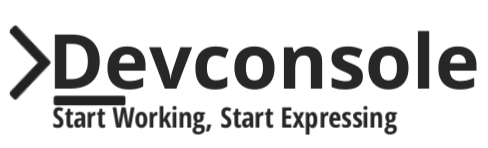
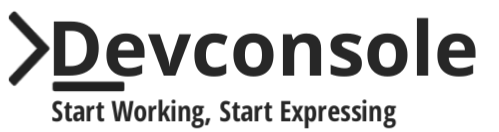
added ui contribution data and modified template

diff --git a/_site/index.html b/_site/index.html
@@ -54,7 +54,7 @@
 <header class="header">
     <nav class="navbar fixed-top" style="box-shadow: none;">
       <a href="index.html" class="navbar-brand">
-        <img src="assets/img/devconsole-1.png" height="50">
+        <img src="assets/img/devconsole.png" height="50">
       </a>
     </nav>
   </header><section id="hero" class="hero hero-home">
@@ -102,7 +102,7 @@
         <div class="container">
             <div class="row d-flex align-items-center">
                 <div class="image col-lg-3 order-2 order-lg-1" style="margin-top:-13%;">
-                    <div class="card" >
+                    <div class="card">
                         <div class="card-header">
                             <span class="font-weight-bold">Top Contributors</span>
                         </div>
@@ -149,14 +149,41 @@
                 </div>
 
                 <div class="text col-lg-9 order-1 order-lg-2">
-                    <h1>React JS UI Challenge</h1>
-                    <div class="card" style="width: 18rem;">
-                        <img class="card-img-top" src="https://raw.githubusercontent.com/devconsolein/react-js-ui-challenge/master/app-landing-page/screenshot/task4.jpeg" alt="Card image cap">
-                        <div class="card-body">
-                            <p class="card-text">Some quick example text to build on the card title and make up the
-                                bulk of the card's content.</p>
+                    <div class="row">
+                        <div class="col-lg-8">
+                            <h1>React JS UI Challenge </h1>
+                        </div>
+                        <div class="col-lg-4">
+                            <a href="https://github.com/devconsolein/react-js-ui-challenge" class="btn btn-outline-primary">Fork Now</a>
                         </div>
                     </div>
+
+                    <div class="row">
+                        
+                        <div class="col-lg-4">
+                            <div class="card">
+                                <img class="card-img-top" src="https://raw.githubusercontent.com/devconsolein/react-js-ui-challenge/master/app-landing-page/screenshot/task4.jpeg" alt="Card image cap">
+                                <div class="card-body">
+                                    <p style="margin-top:-10px; margin-bottom: -1px;" class="font-weight-bold text-dark"><b>Author:
+                                        </b>Ashad Nasim</p>
+                                    <small><b>Inspiration: </b>https://</small>
+                                </div>
+                            </div>
+                        </div>
+                        
+                        <div class="col-lg-4">
+                            <div class="card">
+                                <img class="card-img-top" src="https://raw.githubusercontent.com/devconsolein/react-js-ui-challenge/master/app-landing-page/screenshot/task4.jpeg" alt="Card image cap">
+                                <div class="card-body">
+                                    <p style="margin-top:-10px; margin-bottom: -1px;" class="font-weight-bold text-dark"><b>Author:
+                                        </b>Ashad Nasim</p>
+                                    <small><b>Inspiration: </b>https://</small>
+                                </div>
+                            </div>
+                        </div>
+                        
+                    </div>
+
                 </div>
             </div>
         </div>

diff --git a/_layouts/landing.html b/_layouts/landing.html
@@ -52,7 +52,7 @@
         <div class="container">
             <div class="row d-flex align-items-center">
                 <div class="image col-lg-3 order-2 order-lg-1" style="margin-top:-13%;">
-                    <div class="card" >
+                    <div class="card">
                         <div class="card-header">
                             <span class="font-weight-bold">Top Contributors</span>
                         </div>
@@ -76,14 +76,30 @@
                 </div>
 
                 <div class="text col-lg-9 order-1 order-lg-2">
-                    <h1>React JS UI Challenge</h1>
-                    <div class="card" style="width: 18rem;">
-                        <img class="card-img-top" src="https://raw.githubusercontent.com/devconsolein/react-js-ui-challenge/master/app-landing-page/screenshot/task4.jpeg" alt="Card image cap">
-                        <div class="card-body">
-                            <p class="card-text">Some quick example text to build on the card title and make up the
-                                bulk of the card's content.</p>
+                    <div class="row">
+                        <div class="col-lg-8">
+                            <h1>React JS UI Challenge </h1>
+                        </div>
+                        <div class="col-lg-4">
+                            <a href="https://github.com/devconsolein/react-js-ui-challenge" class="btn btn-outline-primary">Fork Now</a>
                         </div>
                     </div>
+
+                    <div class="row">
+                        {% for reactjs_ui in site.data.reactjs.ui_challenge %}
+                        <div class="col-lg-4">
+                            <div class="card">
+                                <img class="card-img-top" src="{{reactjs_ui.preview}}" alt="Card image cap">
+                                <div class="card-body">
+                                    <p style="margin-top:-10px; margin-bottom: -1px;" class="font-weight-bold text-dark"><b>Author:
+                                        </b>{{reactjs_ui.author}}</p>
+                                    <small><b>Inspiration: </b>{{reactjs_ui.source}}</small>
+                                </div>
+                            </div>
+                        </div>
+                        {% endfor %}
+                    </div>
+
                 </div>
             </div>
         </div>

diff --git a/_site/404.html b/_site/404.html
@@ -54,7 +54,7 @@
 <header class="header">
     <nav class="navbar fixed-top" style="box-shadow: none;">
       <a href="index.html" class="navbar-brand">
-        <img src="assets/img/devconsole-1.png" height="50">
+        <img src="assets/img/devconsole.png" height="50">
       </a>
     </nav>
   </header><div class="py-5">

diff --git a/_includes/header.html b/_includes/header.html
@@ -28,7 +28,7 @@
 <header class="header">
     <nav class="navbar fixed-top" style="box-shadow: none;">
       <a href="index.html" class="navbar-brand">
-        <img src="assets/img/devconsole-1.png" height="50">
+        <img src="assets/img/devconsole.png" height="50">
       </a>
     </nav>
   </header>
